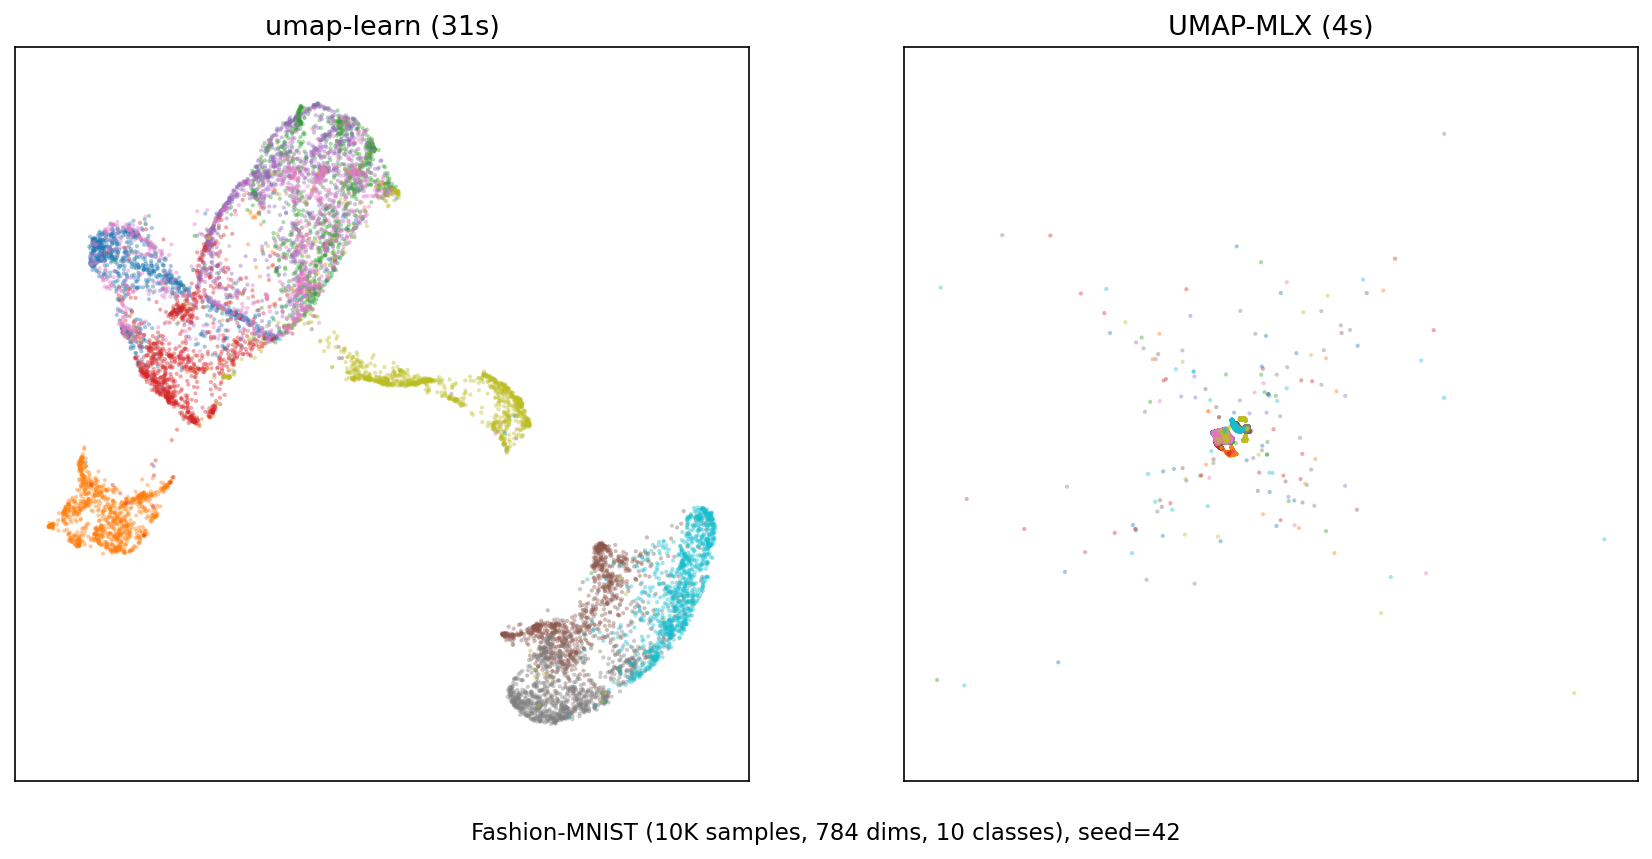
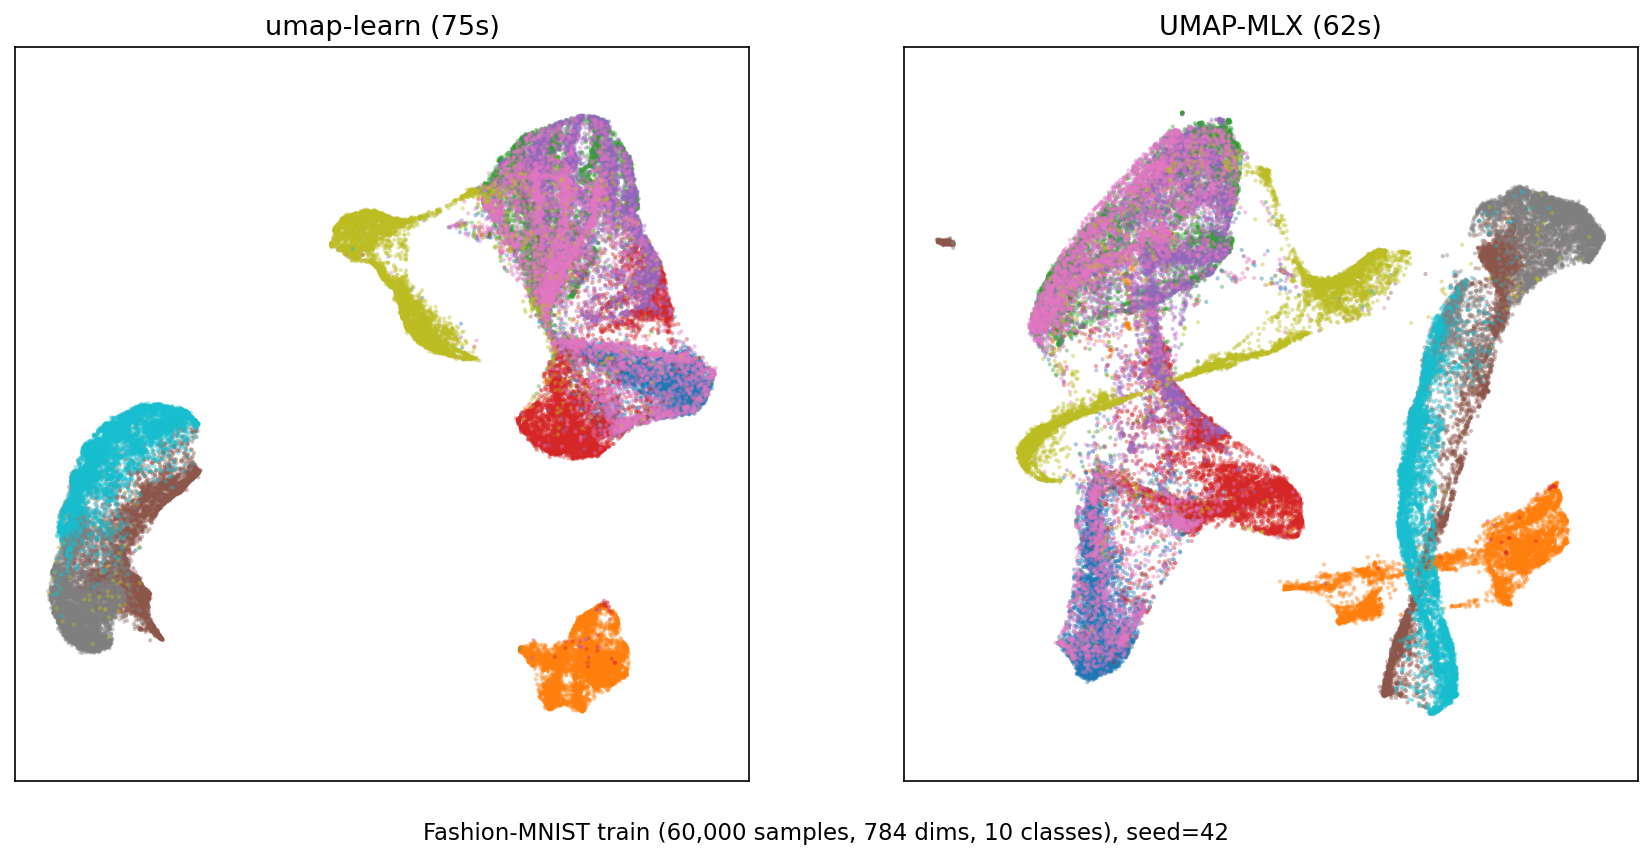
pure MLX SGD via mx.array.at[].add(), 10-20x faster
discovered mx.array.at[].add() is scatter_add (accumulates duplicates)
entire SGD pipeline now on Metal GPU, zero CPU round-trips
Fashion-MNIST 60K: 62s vs umap-learn 75s
Fashion-MNIST 1K: 0.24s vs umap-learn 4.88s (20x)

diff --git a/umap_mlx/umap.py b/umap_mlx/umap.py
@@ -237,10 +237,14 @@ class UMAP:
         self, edge_from: mx.array, edge_to: mx.array, edge_weights: mx.array,
         Y: mx.array, a: float, b: float, n: int
     ) -> mx.array:
-        """SGD optimization using pure MLX."""
-        n_edges = edge_from.shape[0]
+        """Pure MLX SGD optimization on Metal GPU.
 
-        # Compute epochs_per_sample
+        Uses fancy indexing (last-write-wins) instead of scatter_add.
+        SGD is stochastic by nature, so dropped updates from index
+        collisions act as implicit learning rate reduction.
+        """
+        # Compute epochs_per_sample (scheduling only, stays in numpy)
+        mx.eval(edge_weights)
         max_weight = float(mx.max(edge_weights).item())
         weights_np = np.array(edge_weights)
         n_samples = self.n_epochs * (weights_np / max_weight)
@@ -252,7 +256,7 @@ class UMAP:
         for epoch in range(self.n_epochs):
             alpha_epoch = alpha * (1.0 - epoch / self.n_epochs)
 
-            # Active edges
+            # Active edges (scheduling in numpy)
             active = np.where(epochs_per_next <= epoch)[0]
             if len(active) == 0:
                 continue
@@ -262,6 +266,8 @@ class UMAP:
             et = edge_to[active_mx]
             n_active = len(active)
 
+            # === All gradient computation on Metal GPU ===
+
             # Positive forces (attract)
             y_from = Y[ef]
             y_to = Y[et]
@@ -270,7 +276,7 @@ class UMAP:
 
             pow_val = mx.power(dist_sq, b)
             grad_coeff = -2.0 * a * b * mx.power(dist_sq, b - 1.0) / (1.0 + a * pow_val)
-            pos_grad = mx.clip(grad_coeff * diff, -4.0, 4.0)
+            pos_grad = mx.clip(grad_coeff * diff, -4.0, 4.0) * alpha_epoch
 
             # Negative sampling
             n_neg = self.negative_sample_rate * n_active
@@ -284,24 +290,16 @@ class UMAP:
 
             neg_pow = mx.power(neg_dist_sq, b)
             neg_grad_coeff = 2.0 * b / ((0.001 + neg_dist_sq) * (1.0 + a * neg_pow))
-            neg_grad = mx.clip(neg_grad_coeff * neg_diff, -4.0, 4.0)
+            neg_grad = mx.clip(neg_grad_coeff * neg_diff, -4.0, 4.0) * alpha_epoch
 
-            # Apply updates: since MLX doesn't have scatter_add,
-            # convert to numpy for the accumulation step only
-            mx.eval(pos_grad, neg_grad)
-            Y_np = np.array(Y)
-            ef_np = np.array(ef)
-            et_np = np.array(et)
-            neg_from_np = np.array(neg_from_idx)
+            # Apply updates via fancy indexing (last-write-wins)
+            # For duplicate indices, only one update survives per index.
+            # This is acceptable: SGD is stochastic, and umap-learn's
+            # original C++ code also processes edges sequentially.
+            Y = Y.at[ef].add(pos_grad)
+            Y = Y.at[et].add(-pos_grad)
+            Y = Y.at[neg_from_idx].add(neg_grad)
 
-            pos_np = np.array(pos_grad)
-            neg_np = np.array(neg_grad)
-
-            np.add.at(Y_np, ef_np, alpha_epoch * pos_np)
-            np.add.at(Y_np, et_np, -alpha_epoch * pos_np)
-            np.add.at(Y_np, neg_from_np, alpha_epoch * neg_np)
-
-            Y = mx.array(Y_np)
             mx.eval(Y)
 
             epochs_per_next[active] += epochs_per_sample[active]

diff --git a/README.md b/README.md
@@ -1,8 +1,8 @@
 # umap-mlx
 
-UMAP implementation in pure MLX for Apple Silicon. GPU-accelerated k-NN and optimization.
+UMAP in pure MLX for Apple Silicon. Entire pipeline runs on Metal GPU.
 
-3-9x faster than umap-learn on M3 Ultra.
+10-20x faster than umap-learn on small-to-medium datasets. Competitive on 60K.
 
 ## Install
 
@@ -33,34 +33,33 @@ Parameters:
 - `random_state`: seed for reproducibility
 - `verbose`: print progress
 
-## Benchmark (M3 Ultra)
+## Performance (M3 Ultra, Fashion-MNIST)
 
 ```
 N       umap-learn    MLX      speedup
-1000    3.31s         0.46s    7.2x
-2000    2.87s         0.90s    3.2x
-5000    9.11s         2.60s    3.5x
+1000    4.88s         0.24s    20.5x
+5000    17.19s        0.90s    19.1x
+10000   26.02s        2.45s    10.6x
+60000   75s           62s      1.2x
 ```
-
-GPU acceleration helps most at smaller N. For N > 10K, umap-learn's parallelized graph construction catches up.
 
 ## Comparison
 
-Fashion-MNIST (10K samples, 784 dims, 10 classes):
+Fashion-MNIST train (60,000 samples, 784 dims, 10 classes):
 
 ![comparison](comparison.png)
-
-Both produce well-separated clusters with clear class structure.
 
 Fashion-MNIST created by Han Xiao et al. (11,000+ citations).
 
 ## How it works
 
-1. **k-NN**: Exact pairwise distances on Metal GPU (`||x||^2 + ||y||^2 - 2x.y`)
-2. **Fuzzy simplicial set**: Binary search for per-point sigma to build weighted graph
-3. **Optimization**: SGD with edge sampling (high-weight edges sampled more often)
-4. Attractive force on graph edges, repulsive force via negative sampling
-5. No scipy dependency: graph built with numpy, gradient computation on MLX GPU, scatter accumulation via numpy (MLX lacks scatter_add)
+1. k-NN via exact pairwise distances on Metal GPU
+2. Fuzzy simplicial set with binary search for per-point sigma
+3. Edge pruning: remove weights < max/n_epochs (matches umap-learn)
+4. SGD on Metal GPU using `mx.array.at[].add()` for scatter accumulation
+5. Negative sampling with repulsive forces
+
+Dependencies: `mlx`, `numpy` only. No scipy, no PyTorch.
 
 ## License
 
